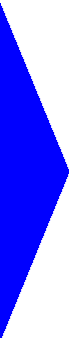
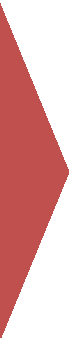
Added new themes to SSI

diff --git a/themes/ssi/css/styles.css b/themes/ssi/css/styles.css
@@ -168,14 +168,18 @@ div.toolsMenu {
 }
 div.menuGps {
 	background-color: beige;
-	width: 220px;
+	/*width: 220px;*/
+	width: 0;
 	height: 656px;
 	display: initial;
 	float: left;
-	padding: 5px;
+	/*padding: 5px 10px;*/
+	padding: 5px 0;
+	overflow: hidden;
 	box-sizing:border-box;
 	-moz-box-sizing:border-box; /* Firefox */
-	-webkit-box-sizing:border-box; /* Safari */}
+	-webkit-box-sizing:border-box; /* Safari */
+}
 
 /** Events Table. */
 table.listTable {
@@ -190,30 +194,68 @@ div.menuGps th {
 	font-size: 12px;
 	font-family: Arial;
 }
-div.menuGps tr.trNormal, div.menuGps tr.trAlt {
+div.menuGps tr.trNormal, div.menuGps tr.trAlt, div.menuGps tr.trNormalGps, div.menuGps tr.trAltGps {
 	font-size: 11px;
 	font-family: helvetica;
 	border: solid 1px;
+	cursor: pointer;
 }
 
-div.menuGps tr.trNormal td, div.menuGps tr.trAlt td {
-	border: solid 1px;
+div.menuGps tr.trNormal td, div.menuGps tr.trAlt td, div.menuGps tr.trNormalGps td, div.menuGps tr.trAltGps td {
+	border: solid 1px blue;
+}
+div.menuGps tr.trNormalGps td, div.menuGps tr.trAltGps td {
+	border: solid 1px #C0504D;
 }
 
-div.menuGps tr.trNormal {
-	background-color: #87cefa;
-}
-div.menuGps tr.trAlt {
-	background-color: #b0c4de;
-}
+div.menuGps tr.trNormal { background-color: #87cefa; }
+div.menuGps tr.trAlt { background-color: rgba(135, 206, 250, 0.28); }
+div.menuGps tr.trNormalGps { background-color: #EFD3D2; }
+div.menuGps tr.trAltGps { background-color: rgba(239, 211, 210, 0.24); }
 
 div.menuGps td.rowPointer {
-	background-image: url('../img/rowPointer.png');
-	background-repeat: no-repeat;
+	background: url('../img/rowPointer.png') no-repeat;
 	min-width: 3px;
 	min-height: 34px;
 }
+
+div.menuGps td.rowPointerGps {
+	background: url('../img/rowPointer-Burgundy.png') no-repeat;
+	min-width: 3px;
+	min-height: 34px;
+}
+div.menuGps td.rowPointerGpsSmall {
+	background: url('../img/rowPointer-BurgundySmall.png') no-repeat;
+	min-width: 3px;
+	min-height: 17px;
+}
+
 td.rowSpacer {
-	min-height: 2px;
+	min-height: 1px;
 	background-color: black;
+}
+
+/** GPS Info Slider. */
+div.monPartyInfo {
+	border: solid 1px blueViolet;
+	border-radius: 10px;
+	box-shadow: 0px 3px 6px 1px rgba(0, 0, 0, 0.66);
+}
+table.monPartyInfo {
+	width: 100%;
+}
+span.secTitle {
+	text-align: center;
+	font-family: "Trebuchet MS", Arial, Helvetica, sans-serif;
+}
+
+td.fieldTitle {
+	font-family: "Trebuchet MS", Arial, Helvetica, sans-serif;
+	font-size: 11px;
+}
+td.fieldValue {
+	font-family: Verdana,Geneva,sans-serif;
+	font-weight: bold;
+	font-size: 11px;
+	text-align: left;
 }

diff --git a/Index.php b/Index.php
@@ -35,7 +35,7 @@
 	<script type="text/javascript" src="js/jquery-ui-1.8.20.custom.min.js"></script>
 	<script type="text/javascript" src="js/app/Config.js"></script>
 	<!-- START Utils -->
-    <script type="text/javascript" src="js/app/Utils/Strings.js"></script>
+	<script type="text/javascript" src="js/app/Utils/Strings.js"></script>
 	<!-- START Apps -->
 	<script type="text/javascript" src="js/app/AppService.js"></script>
 	<script type="text/javascript" src="js/app/Services/ClientGpsTrack.js"></script>
